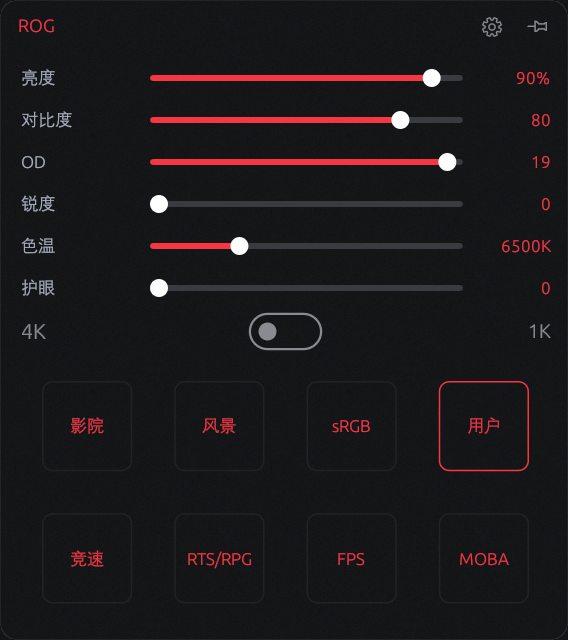
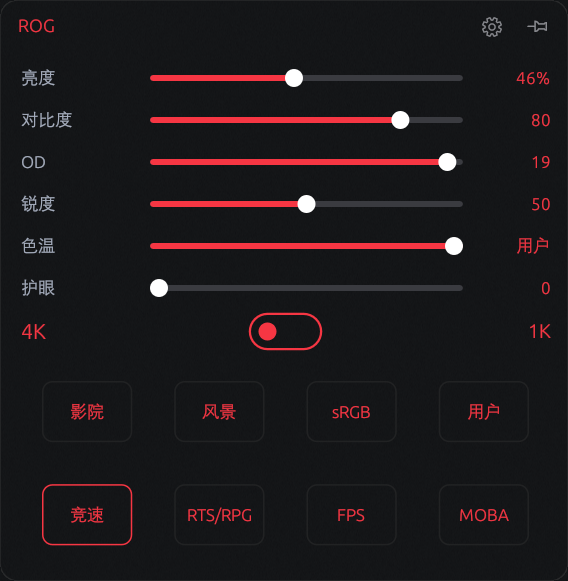
feat(widget): 快速场景按钮高度改为宽度的 2/3
- 场景按钮由正方形改为 2:3 比例，随列宽自动计算高度
- 同步更新 README、设置页文案与 widget 截图

diff --git a/rust/src/app.rs b/rust/src/app.rs
@@ -178,8 +178,13 @@ fn widget_scene_slot(width_points: f32) -> f32 {
 }
 
 fn widget_scene_cell(width_points: f32) -> f32 {
-    // 每个方格四周各留 15px 外边距，因此边长 = 列宽 - 30。
+    // 每个按钮四周各留 15px 外边距，因此宽度 = 列宽 - 30。
     (widget_scene_slot(width_points) - 2.0 * WIDGET_SCENE_MARGIN).max(16.0)
+}
+
+fn widget_scene_height(width_points: f32) -> f32 {
+    // 高度为宽度的 2/3。
+    widget_scene_cell(width_points) * 2.0 / 3.0
 }
 
 fn scene_rows(count: usize) -> usize {
@@ -647,7 +652,7 @@ impl RogApp {
             w = (state.w - dx).max(MIN_W as i32);
             x = state.x + (state.w - w);
         }
-        // 场景格子是正方形：宽度变化会改变所需的最小高度。
+        // 场景按钮高度是宽度的 2/3：宽度变化会改变所需的最小高度。
         let ppp = self.effective_ppp.max(0.25);
         let cfg = self.widget_cfg();
         let scene_count = self.scene_mode_count(&cfg);
@@ -728,8 +733,9 @@ impl RogApp {
             height += WIDGET_FRB_H;
         }
         if cfg.scenes && scene_count > 0 {
-            let cell = widget_scene_cell(width_points);
-            height += 4.0 + scene_rows(scene_count) as f32 * (cell + 2.0 * WIDGET_SCENE_MARGIN);
+            let button_height = widget_scene_height(width_points);
+            height +=
+                4.0 + scene_rows(scene_count) as f32 * (button_height + 2.0 * WIDGET_SCENE_MARGIN);
         }
         height + WIDGET_PAD
     }
@@ -1297,7 +1303,8 @@ impl RogApp {
                     y += 4.0;
                     let slot = widget_scene_slot(card.width());
                     let cell = widget_scene_cell(card.width());
-                    let row_height = cell + 2.0 * WIDGET_SCENE_MARGIN;
+                    let button_height = widget_scene_height(card.width());
+                    let row_height = button_height + 2.0 * WIDGET_SCENE_MARGIN;
                     let current = view.current_mode_value();
                     for (index, (value, label)) in modes.iter().enumerate() {
                         let column = (index % 4) as f32;
@@ -1307,7 +1314,7 @@ impl RogApp {
                                 left + column * slot + WIDGET_SCENE_MARGIN,
                                 y + row * row_height + WIDGET_SCENE_MARGIN,
                             ),
-                            egui::vec2(cell, cell),
+                            egui::vec2(cell, button_height),
                         );
                         self.widget_scene_button(
                             ui,

diff --git a/rust/src/main_window.rs b/rust/src/main_window.rs
@@ -2009,10 +2009,10 @@ fn page_widget(ui: &mut Ui, st: &mut PageState) {
                 RichText::new(st.t(
                     "挂件高度会随勾选项自动调整；拖动条按上面的顺序从上往下排列，\
                      Frame Rate Boost 可选。快速场景列出所有 GameVisual 模式，按勾选顺序排列，每行最多 4 个，\
-                     每个选项四周留 15px 外边距，当前模式红框。响应速度在小挂件里显示为 OD。",
+                     每个选项四周留 15px 外边距，高度为宽度的 2/3，当前模式红框。响应速度在小挂件里显示为 OD。",
                     "The widget height follows your selection. Sliders are stacked in order; \
                      Frame Rate Boost is optional. Quick scenes list every GameVisual mode in the order you check them, max 4 per row, \
-                     with a 15px margin around each square; the current mode gets a red border. \
+                     with a 15px margin around each button (height = 2/3 of width); the current mode gets a red border. \
                      OverDrive is labelled OD in the widget.",
                 ))
                 .size(10.0)
